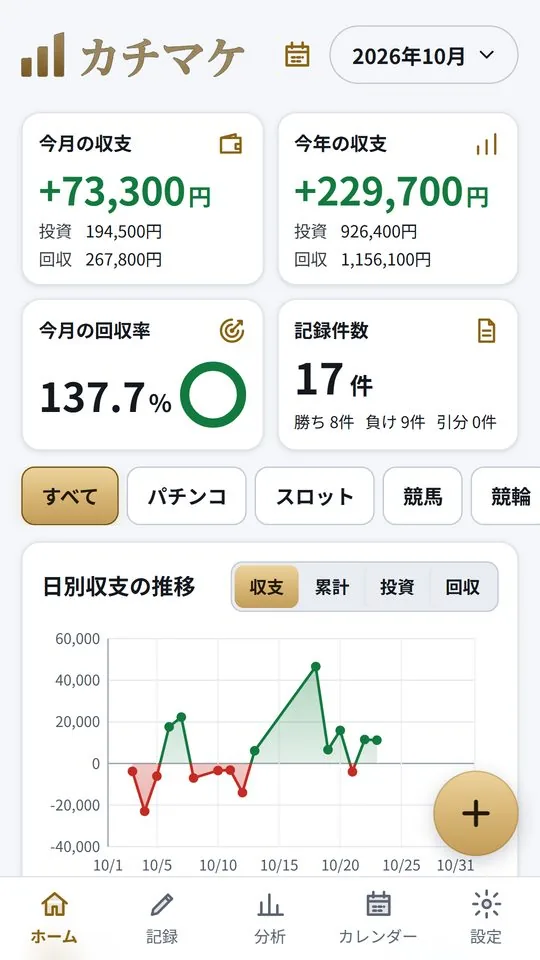
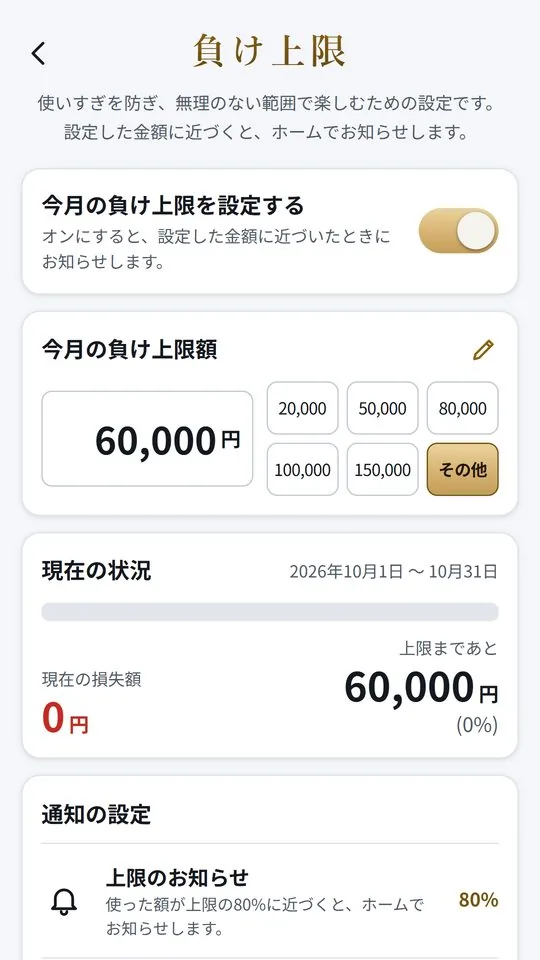
カチマケの画面を、勝っている数字が大きく出ない物に替える(負けの上限・カレンダー・小役カウンター)

diff --git a/index.html b/index.html
@@ -379,9 +379,9 @@ footer .copy { margin-top: var(--sp-4); font-size: var(--fs-1); color: var(--mut
         <div class="links"><a href="/kachimake/">使い方と画面を見る</a></div>
       </div>
       <div class="shots" role="group" aria-label="カチマケの画面">
-        <figure class="phone" style="margin:0"><img src="img/shots/km-1.webp" alt="ホーム。今月の収支と回収率" width="540" height="960" loading="lazy" decoding="async"></figure>
-        <figure class="phone" style="margin:0"><img src="img/shots/km-2.webp" alt="カレンダー。日ごとの収支" width="540" height="960" loading="lazy" decoding="async"></figure>
-        <figure class="phone" style="margin:0"><img src="img/shots/km-3.webp" alt="分析。月の収支の推移" width="540" height="960" loading="lazy" decoding="async"></figure>
+        <figure class="phone" style="margin:0"><img src="img/shots/km-1.webp" alt="負けの上限の設定。近づいたらお知らせ" width="540" height="960" loading="lazy" decoding="async"></figure>
+        <figure class="phone" style="margin:0"><img src="img/shots/km-2.webp" alt="カレンダー。日ごとの記録" width="540" height="960" loading="lazy" decoding="async"></figure>
+        <figure class="phone" style="margin:0"><img src="img/shots/km-3.webp" alt="小役カウンター" width="540" height="960" loading="lazy" decoding="async"></figure>
       </div>
     </article>
   </div>
